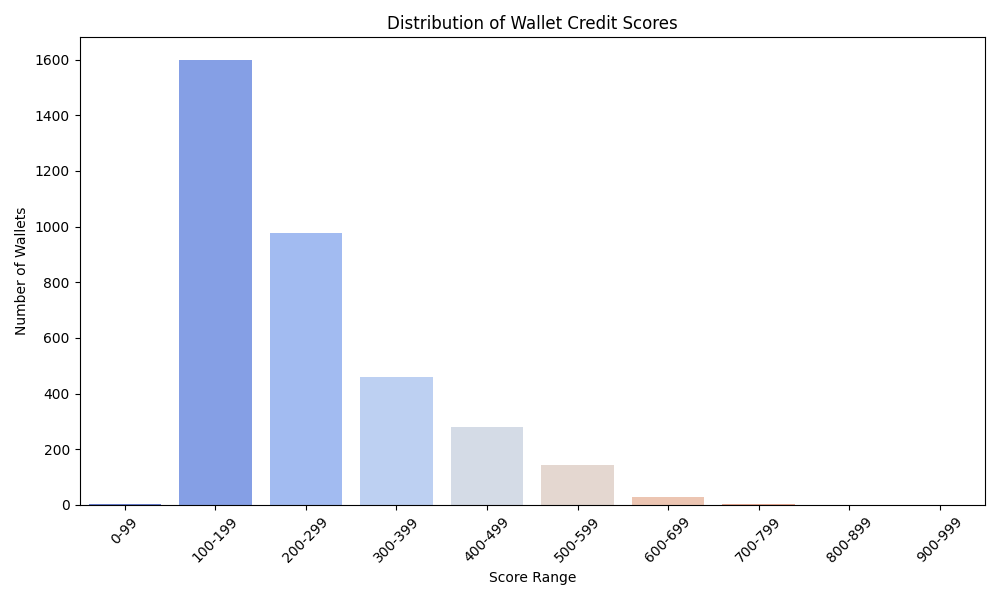
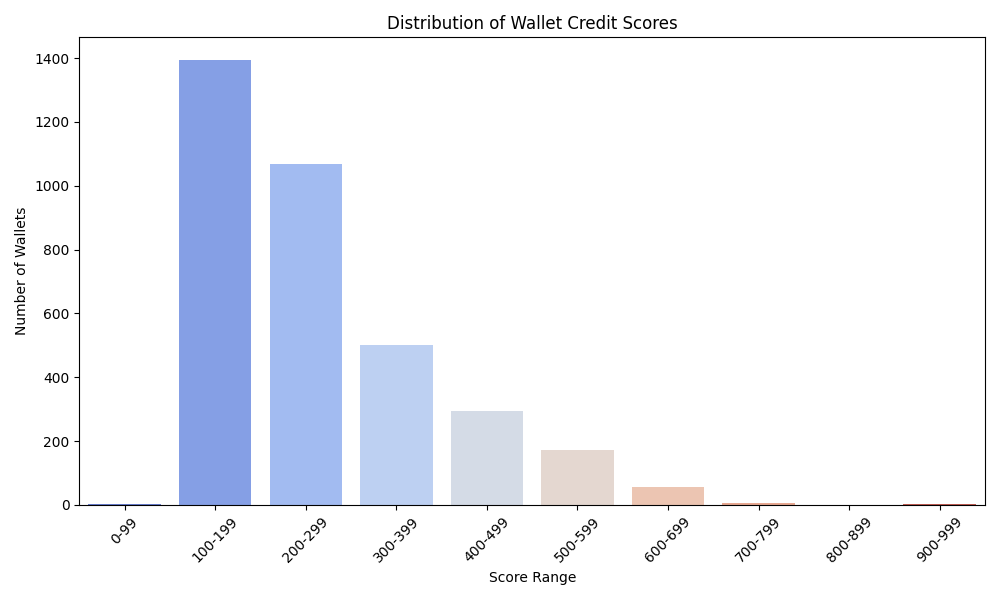
updated things

diff --git a/CreditScorer.py b/CreditScorer.py
@@ -41,33 +41,17 @@ def converter(json_file:str,csv_file:str):
 
 # get the wallet features
 def get_wallet_features(df: pd.DataFrame) -> pd.DataFrame:
-    token_decimals = {
-        'USDC': 6,
-        'USDT': 6,
-        'DAI': 18,
-        'WETH': 18,
-        'WBTC': 8,
-        'WMATIC': 18,
-        'AAVE': 18,
-        'WPOL': 18
-    }
 
-    # 2. Convert to proper amount
+    # convert to proper amount
     df['amount'] = pd.to_numeric(df['amount'], errors='coerce')
     df['assetPriceUSD'] = pd.to_numeric(df['assetPriceUSD'], errors='coerce')
 
-    def convert_amount(row):
-        symbol = row['assetSymbol']
-        decimals = token_decimals.get(symbol, 18) # if nan value found, then it gets replaced by 18(default value)
-        return row['amount'] / (10 ** decimals)
+    df['usd_value'] = df['amount'] * df['assetPriceUSD']
 
-    df['amount_converted'] = df.apply(convert_amount, axis=1)
-    df['usd_value'] = df['amount_converted'] * df['assetPriceUSD']
-
-    # 3. Convert timestamp to datetime
+    # convert timestamp to datetime
     df['timestamp'] = pd.to_datetime(df['timestamp'], unit='s')
 
-    # 4. Group by userWallet
+    # group by userWallet
     grouped = df.groupby('userWallet')
 
     features = []
@@ -176,8 +160,8 @@ def write_analysis(df,report_file,image_file):
         
         perfect_score_count = (df["credit_score"] == 1000).sum()
         zero_score_count = (df["credit_score"] == 0).sum()
-        f.write(f"Number of wallets with perfect credit score (1000): {perfect_score_count}\n\n")
-        f.write(f"Number of wallets with zero credit score (0):{zero_score_count}\n\n")
+        f.write(f"- Number of wallets with perfect credit score (1000) : {perfect_score_count}\n\n")
+        f.write(f"- Number of wallets with zero credit score (0) : {zero_score_count}\n\n")
 
         top_wallets = df.sort_values(by="credit_score", ascending=False).head(3)
         f.write("## Top 3 Wallets by Credit Score\n")

diff --git a/MLScorer/MLCreditScorer.py b/MLScorer/MLCreditScorer.py
@@ -42,33 +42,16 @@ def converter(json_file:str,csv_file:str):
 
 # get the wallet features
 def get_wallet_features(df: pd.DataFrame) -> pd.DataFrame:
-    token_decimals = {
-        'USDC': 6,
-        'USDT': 6,
-        'DAI': 18,
-        'WETH': 18,
-        'WBTC': 8,
-        'WMATIC': 18,
-        'AAVE': 18,
-        'WPOL': 18
-    }
-
-    # 2. Convert to proper amount
+    # convert to proper amount
     df['amount'] = pd.to_numeric(df['amount'], errors='coerce')
     df['assetPriceUSD'] = pd.to_numeric(df['assetPriceUSD'], errors='coerce')
 
-    def convert_amount(row):
-        symbol = row['assetSymbol']
-        decimals = token_decimals.get(symbol, 18) # if nan value found, then it gets replaced by 18(default value)
-        return row['amount'] / (10 ** decimals)
+    df['usd_value'] = df['amount'] * df['assetPriceUSD']
 
-    df['amount_converted'] = df.apply(convert_amount, axis=1)
-    df['usd_value'] = df['amount_converted'] * df['assetPriceUSD']
-
-    # 3. Convert timestamp to datetime
+    # convert timestamp to datetime
     df['timestamp'] = pd.to_datetime(df['timestamp'], unit='s')
 
-    # 4. Group by userWallet
+    # group by userWallet
     grouped = df.groupby('userWallet')
 
     features = []

diff --git a/analysis.md b/analysis.md
@@ -4,21 +4,21 @@
 
 ## Summary
 - Total wallets analyzed: 3497
-Number of wallets with perfect credit score (1000): 1
+- Number of wallets with perfect credit score (1000) : 1
 
-Number of wallets with zero credit score (0):1
+- Number of wallets with zero credit score (0) : 1
 
 ## Top 3 Wallets by Credit Score
 | Wallet | Credit Score | Net Borrow USD | Net Deposit USD | Asset Diversity | Liquidations |
 |--------|--------------|----------------|-----------------|-----------------|--------------|
-| 0x02eca8cc78b7d30c1ac5e16988ed2c8a9da658d6 | 1000.0 | 19204088.83 | 7638950.74 | 8.00 | 0 |
-| 0x058b10cbe1872ad139b00326686ee8ccef274c58 | 897.151075559658 | 26096946.47 | 21463870.35 | 7.00 | 0 |
-| 0x000f7f22bfc28d940d4b68e13213ab17cf107790 | 758.3595402105107 | 132312.52 | 224573.59 | 5.00 | 0 |
+| 0x058b10cbe1872ad139b00326686ee8ccef274c58 | 1000.0 | 26100014293688556017680384.00 | 24227616491926852579885056.00 | 7.00 | 0 |
+| 0x02eca8cc78b7d30c1ac5e16988ed2c8a9da658d6 | 964.7774381581017 | 5397416737889218132443136.00 | 18170949752812963404709888.00 | 8.00 | 0 |
+| 0x0476f3ee277eb20568ee2369b337f3ce55bc558a | 752.4301221460672 | 2544258129573999011692544.00 | 4058554345943989751906304.00 | 7.00 | 0 |
 
 ## Bottom 3 Wallets by Credit Score
 | Wallet | Credit Score | Total USD | Net Borrow USD | Net Deposit USD | Asset Diversity | Liquidations |
 |--------|---------------|-----------|----------------|-----------------|-----------------|--------------|
-| 0x02a16f8df2b11b3a0c9f47cc5d705830792e3e6f | 0.0 | 11207.81 | 997.68 | 981.94 | 5.00 | 26 |
-| 0x04426a58fdd02eb166b7c1a84ef390c4987ae1e0 | 86.4922095364572 | 43630.70 | 7605.70 | 5127.45 | 6.00 | 17 |
-| 0x02eb2ee0867dc3dfaa3862d0cc86984b6aada907 | 164.83030647667815 | 10925.36 | 2393.92 | 3146.80 | 4.00 | 10 |
+| 0x02a16f8df2b11b3a0c9f47cc5d705830792e3e6f | 0.0 | 8195273356978402885632.00 | 281030908195588538368.00 | 981942668111645507584.00 | 5.00 | 26 |
+| 0x04426a58fdd02eb166b7c1a84ef390c4987ae1e0 | 90.95777258281781 | 21653798788535074947072.00 | 2970412045448594849792.00 | 11961590733912401772544.00 | 6.00 | 17 |
+| 0x02eb2ee0867dc3dfaa3862d0cc86984b6aada907 | 173.3074165424941 | 9335779585099336515584.00 | 1324375833951537987584.00 | 3146796434018170568704.00 | 4.00 | 10 |
 

diff --git a/MLScorer/analysis.md b/MLScorer/analysis.md
@@ -4,21 +4,21 @@
 
 ## Summary
 - Total wallets analyzed: 3497
-- Number of wallets with perfect credit score (1000): 0
+- Number of wallets with perfect credit score (1000): 1
 
-- Number of wallets with zero credit score (0):943
+- Number of wallets with zero credit score (0): 949
 
 ## Top 3 Wallets by Credit Score
 | Wallet | Credit Score | Net Borrow USD | Net Deposit USD | Asset Diversity | Liquidations |
 |--------|--------------|----------------|-----------------|-----------------|--------------|
-| 0x02eca8cc78b7d30c1ac5e16988ed2c8a9da658d6 | 1000.0000000000001 | 19204088.83 | 7638950.74 | 8.00 | 0 |
-| 0x058b10cbe1872ad139b00326686ee8ccef274c58 | 993.365669818278 | 26096946.47 | 21463870.35 | 7.00 | 0 |
-| 0x000f7f22bfc28d940d4b68e13213ab17cf107790 | 984.4932545599239 | 132312.52 | 224573.59 | 5.00 | 0 |
+| 0x000f7f22bfc28d940d4b68e13213ab17cf107790 | 1000.0 | 101554629415761705172992.00 | 164714409340819671613440.00 | 5.00 | 0 |
+| 0x058b10cbe1872ad139b00326686ee8ccef274c58 | 992.3639040899764 | 26100014293688556017680384.00 | 24227616491926852579885056.00 | 7.00 | 0 |
+| 0x022b3fa410364e1e28054b704b0da3b67aa6dc90 | 983.0985843333592 | 5707278761077931887296512.00 | 7695197235781177819791360.00 | 1.00 | 0 |
 
 ## Bottom 3 Wallets by Credit Score
 | Wallet | Credit Score | Total USD | Net Borrow USD | Net Deposit USD | Asset Diversity | Liquidations |
 |--------|---------------|-----------|----------------|-----------------|-----------------|--------------|
-| 0x0185e80948461135faabd6d01fe4afa8586fe6c4 | 0.0 | 1.86 | 0.00 | 1.86 | 1.00 | 0 |
-| 0x01b700a7f8797609c8e86b21d3e5a765d608b9a2 | 0.0 | 1.13 | 0.00 | 1.13 | 1.00 | 0 |
-| 0x04008507db2ab8b2bf5410905d4b146ea8009c2f | 0.0 | 1.12 | 0.00 | 1.12 | 1.00 | 0 |
+| 0x00000000001accfa9cef68cf5371a23025b6d4b6 | 0.0 | 1987663654.86 | 0.00 | 1987663654.86 | 1.00 | 0 |
+| 0x02803b28b29a24d895e523fbfa561700e01b09de | 0.0 | 1117495.30 | 0.00 | 1117495.30 | 1.00 | 0 |
+| 0x0587a761fac209de0d9bb6e186fa21523582d028 | 0.0 | 1005400.85 | 0.00 | 1005400.85 | 1.00 | 0 |
 
